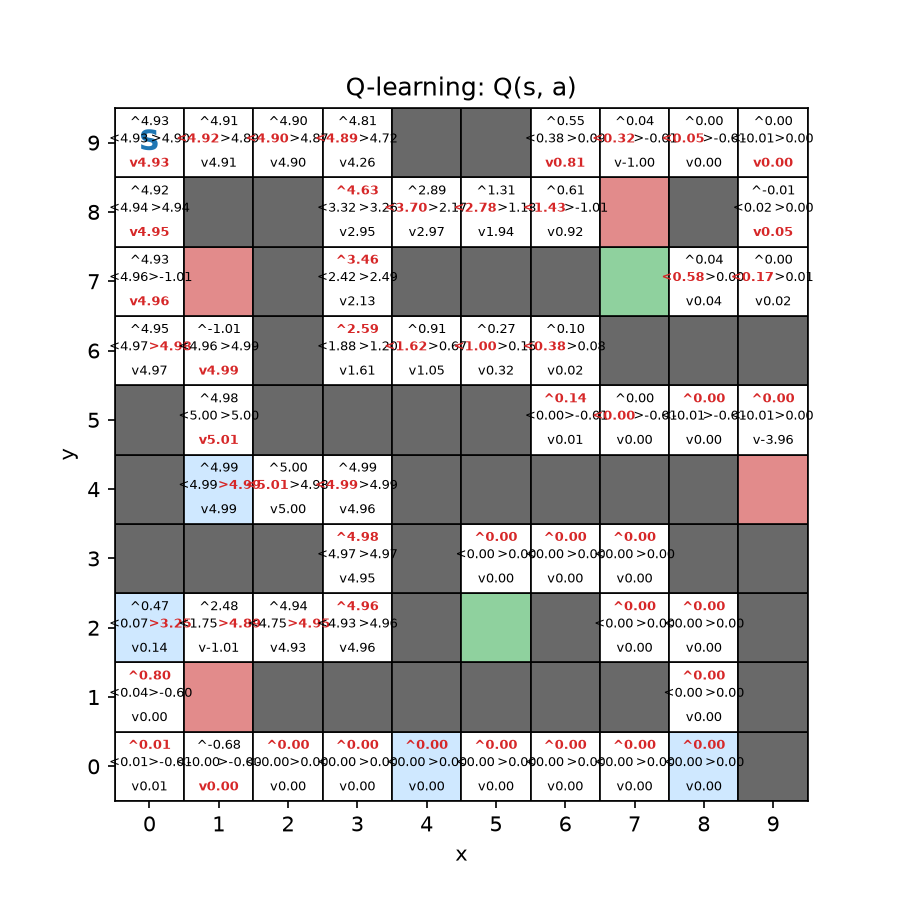
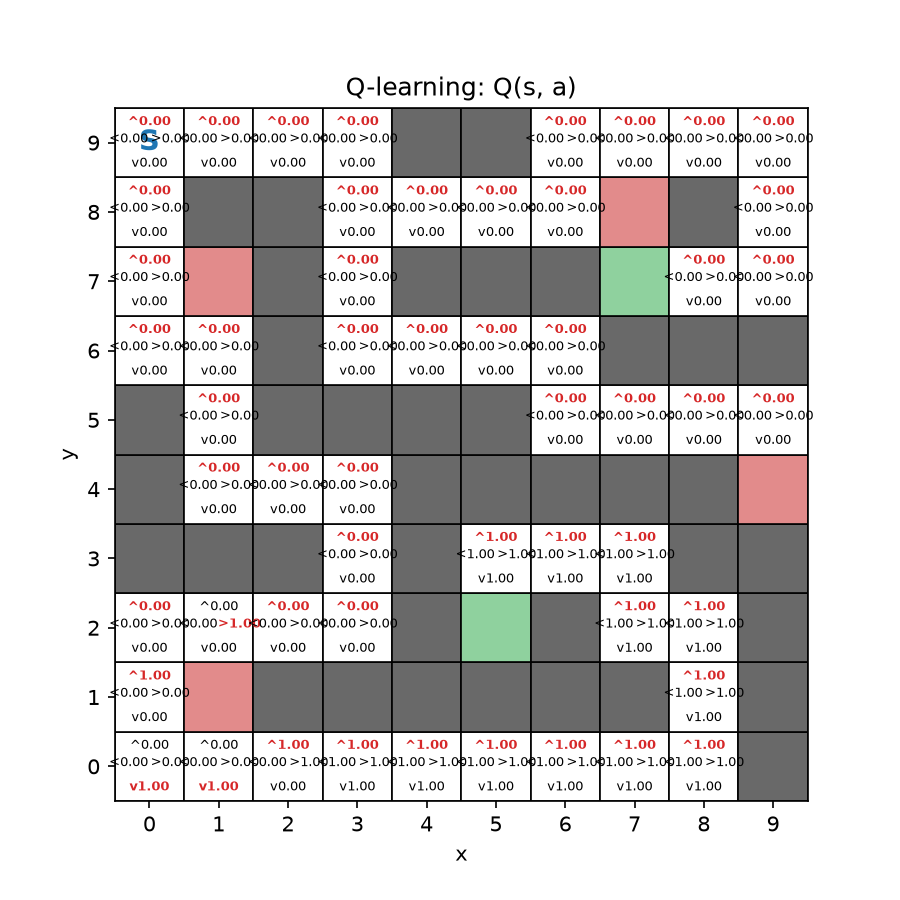
optimistic initialisation debugging

diff --git a/gridworld/maze_gridworld.py b/gridworld/maze_gridworld.py
@@ -18,12 +18,6 @@ def make_maze_gridworld(seed: int | None = 0, render_mode: str | None = None) ->
     walls |= {(8, y) for y in (3, 4, 6, 8)}
     walls |= {(9, y) for y in (0, 1, 2, 3, 6)}
 
-    shaping_rewards = {
-        (1,4):0.03,
-        (0,2):0.05,
-        (4,0):0.07,
-        (8,0):0.1,
-    }
 
     config = GridWorldConfig(
         width=10,
@@ -37,10 +31,10 @@ def make_maze_gridworld(seed: int | None = 0, render_mode: str | None = None) ->
             (7, 8): -1.0,
             (9, 4): -4.0,
         },
-        rewards=shaping_rewards,
+        rewards={},
         walls=walls,
         step_reward=-0.01,
-        invalid_move_reward=0,
+        invalid_move_reward=-0.05,
         slip_probability=0.0,
         max_steps=100,
         seed=seed,

diff --git a/scripts/run_q_learning_maze.py b/scripts/run_q_learning_maze.py
@@ -31,9 +31,9 @@ def main() -> None:
 
     Q, policy, episode_returns, episode_lengths = q_learning(
         env,
-        episodes=10000,
+        episodes=100000,
         alpha=0.2,
-        gamma=0.999,
+        gamma=0.99,
         epsilon=1.0,
         epsilon_min=0.05,
         epsilon_decay=0.9999,

diff --git a/gridworld/q_learning.py b/gridworld/q_learning.py
@@ -67,7 +67,7 @@ def q_learning(
     """
     n_states = env.n_states
     n_actions = env.action_space.n
-    Q = np.zeros((n_states, n_actions))
+    Q = np.full((n_states, n_actions),1)
     rng = np.random.default_rng(seed)
 
     episode_returns: list[float] = []
